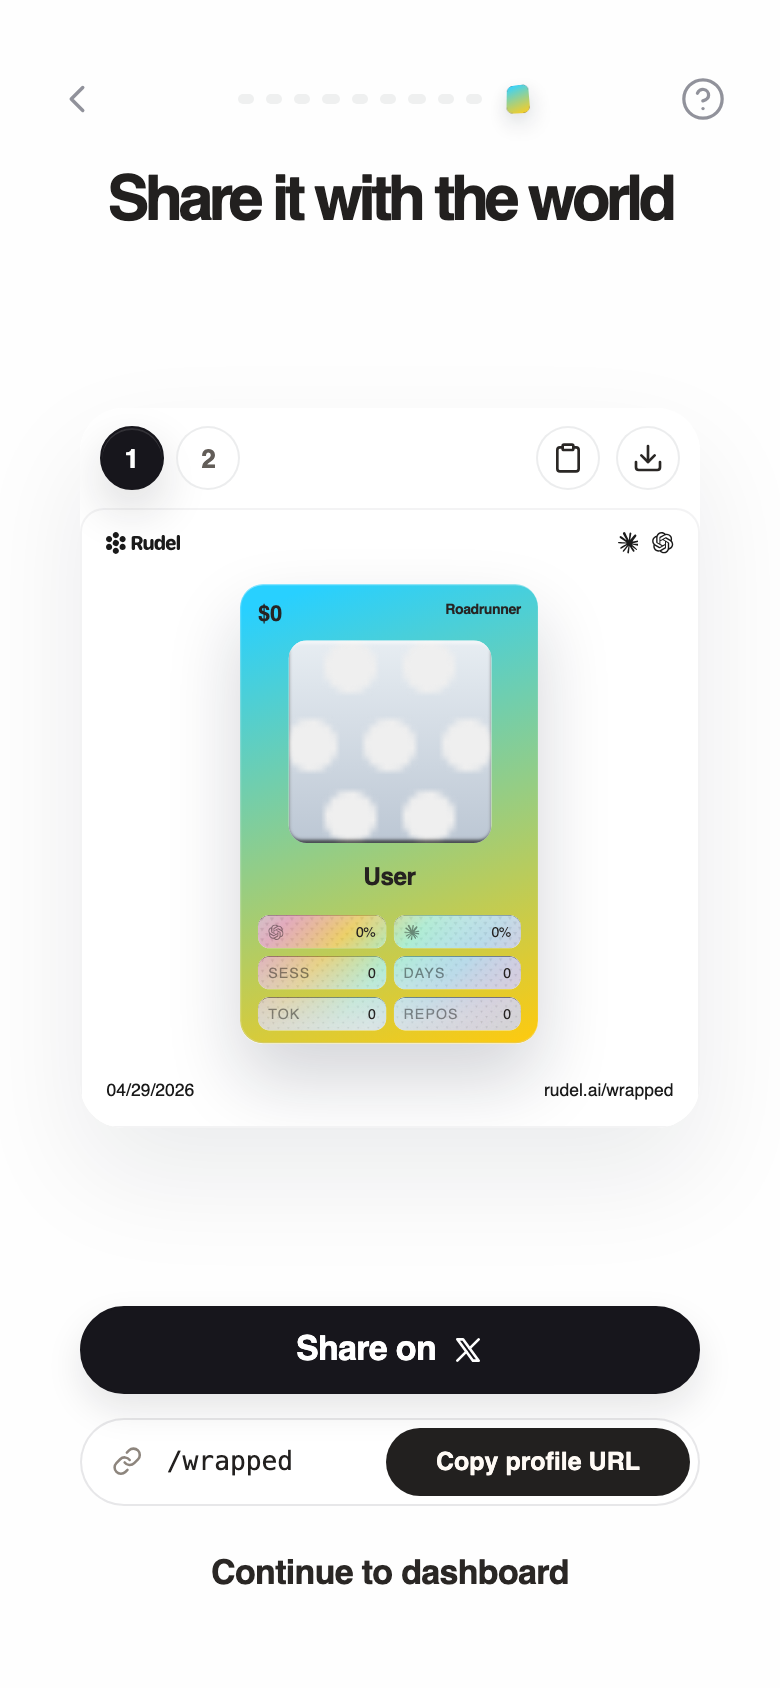
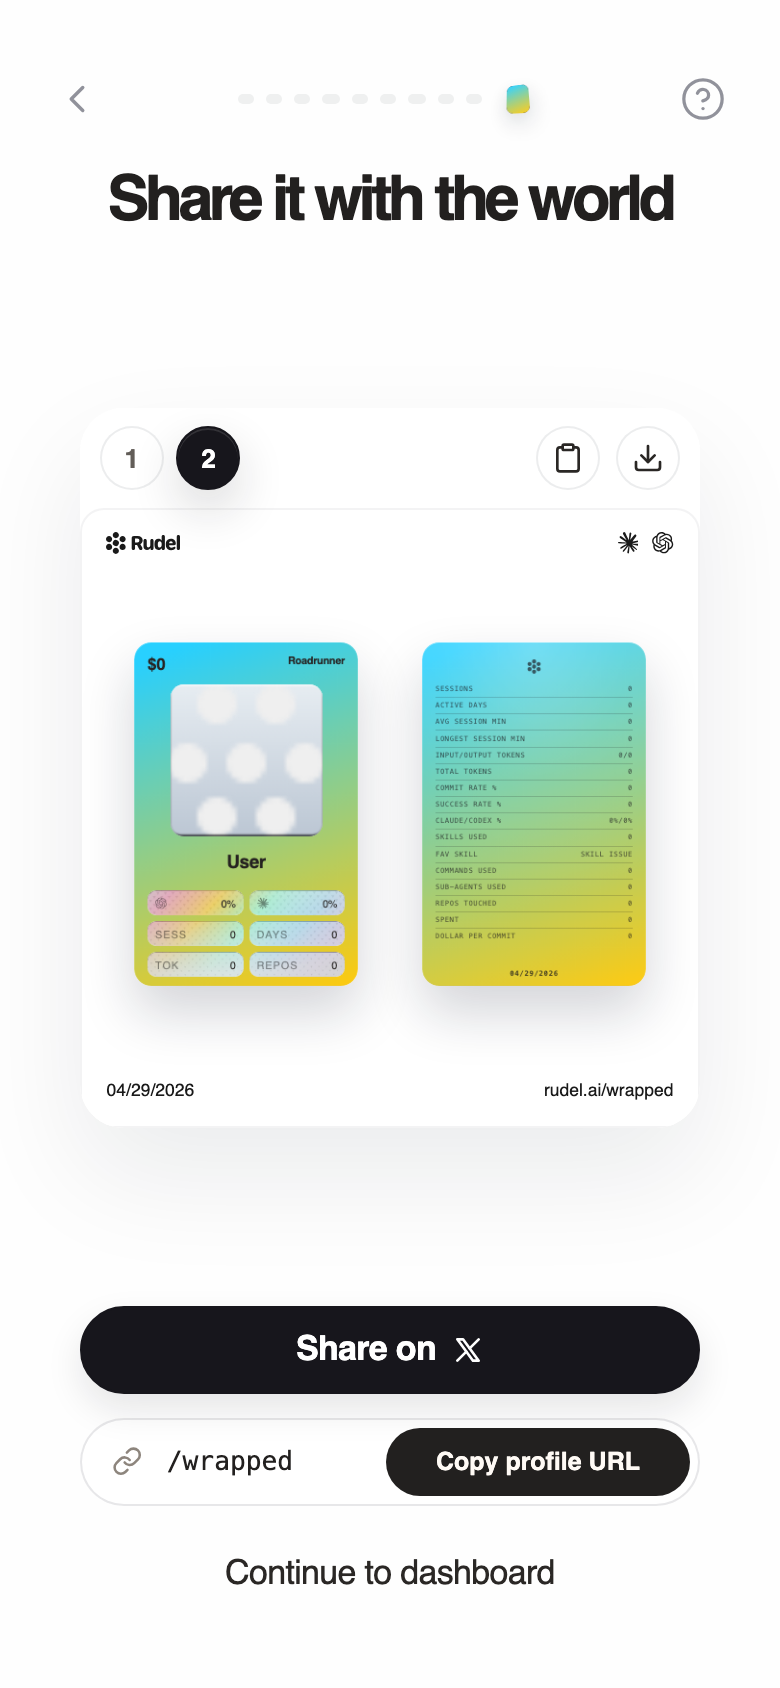
fix: default wrapped share to two cards

Changed region(s): [[0.1538, 0.3389, 0.8308, 0.6469], [0.2769, 0.9242, 0.7385, 0.955], [0.1231, 0.2464, 0.3077, 0.3081]]

diff --git a/apps/web/src/features/wrapped/team-card/final-stages.test.tsx b/apps/web/src/features/wrapped/team-card/final-stages.test.tsx
@@ -9,6 +9,7 @@ import {
 	WrappedTeamCardRevealStage,
 	WrappedTeamCardShareStage,
 } from "@/features/wrapped/team-card/final-stages";
+import { DEFAULT_WRAPPED_SHARE_APPEARANCE } from "@/features/wrapped/team-card/share-appearance";
 import { WrappedTeamCardSharePreview } from "@/features/wrapped/team-card/share-preview";
 import type { WrappedCardTiltController } from "@/features/wrapped/team-card/tilt/use-card-tilt";
 
@@ -301,6 +302,57 @@ describe("WrappedTeamCardSharePreview", () => {
 });
 
 describe("WrappedTeamCardShareStage", () => {
+	it("selects the two-card post variant by default", () => {
+		render(
+			<WrappedTeamCardShareStage
+				appearance={DEFAULT_WRAPPED_SHARE_APPEARANCE}
+				backMetrics={buildWrappedTeamCardBackMetrics({
+					onboardingMetrics,
+					row,
+					shareCardCreatedAtLabel: "04/24/2026",
+				})}
+				headerLeftMetric={{ title: "$42 estimated spend", value: "$42" }}
+				headerRightMetric={{
+					title: "Smooth Operator",
+					value: "Smooth Operator",
+				}}
+				onAppearanceChange={vi.fn()}
+				onBack={vi.fn()}
+				onContinueToDashboard={vi.fn()}
+				onCopy={vi.fn()}
+				onCopyProfileUrl={vi.fn()}
+				onDownload={vi.fn()}
+				onShare={vi.fn()}
+				profileUrlLabel="rudel.ai/wrapped/public-card"
+				row={row}
+				shareCardCreatedAtLabel="04/24/2026"
+				sharePostRef={{ current: null }}
+				shellClassName="bg-sky-200"
+				shellStyle={{}}
+				statItems={[]}
+				statLayerOpacities={{
+					rainbowShineOpacity: 0.3,
+					textureOpacity: 1,
+					tileBorderOpacity: 1,
+					tileFillOpacity: 0.08,
+					tileInsetShadowOpacity: 0.5,
+					tileTopStrokeOpacity: 0.08,
+				}}
+				theme="light"
+			/>,
+		);
+
+		expect(screen.getByRole("button", { name: "One card" })).toHaveAttribute(
+			"aria-pressed",
+			"false",
+		);
+		expect(screen.getByRole("button", { name: "Two cards" })).toHaveAttribute(
+			"aria-pressed",
+			"true",
+		);
+		expect(screen.getByText("Input/output tokens")).toBeInTheDocument();
+	});
+
 	it("shows a spinner in the download button while export is pending", () => {
 		render(
 			<WrappedTeamCardShareStage

diff --git a/apps/web/src/features/wrapped/team-card/share-appearance.ts b/apps/web/src/features/wrapped/team-card/share-appearance.ts
@@ -1,7 +1,7 @@
 import type { WrappedShareAppearance } from "@rudel/api-routes";
 
 export const DEFAULT_WRAPPED_SHARE_APPEARANCE: WrappedShareAppearance = {
-	layoutMode: "front",
+	layoutMode: "front_back",
 	showArchetypeLabel: true,
 };
 

diff --git a/apps/web/src/features/wrapped/wrapped.css b/apps/web/src/features/wrapped/wrapped.css
@@ -8367,6 +8367,8 @@ body.mymind-wrapped-body #cw-bubble-holder {
 	background: transparent;
 	box-shadow: none;
 	color: #2a2725;
+	font-family: "Nunito", var(--font-sans);
+	font-weight: 400;
 }
 
 .mymind-wrapped-share-primary-action--text:hover {